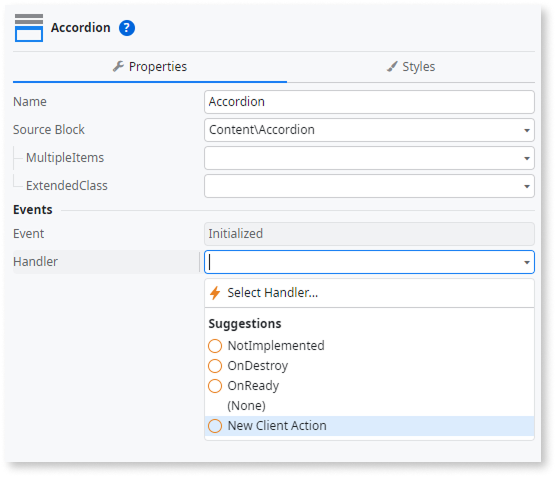
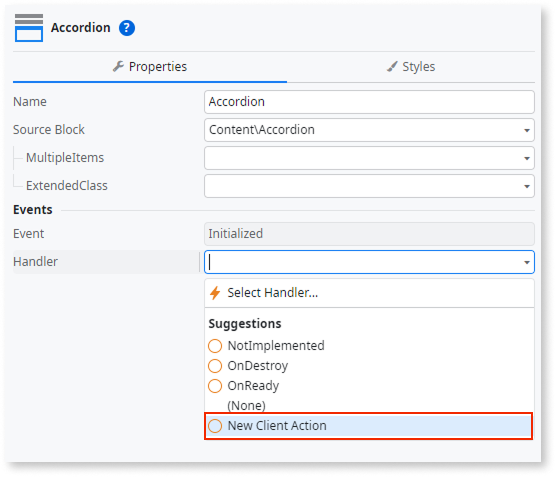
ROU-12779: Updated Accordion, Action Sheet, Carousel and Tabs accessibility docs (#2848)

Changed region(s): [[0.3669, 0.8512, 0.9784, 0.9392]]

diff --git a/src/building-apps/ui/patterns/mobile/interaction/carousel.md b/src/building-apps/ui/patterns/mobile/interaction/carousel.md
@@ -43,7 +43,7 @@ To find out what version of OutSystems UI you are using, see [OutSystems UI vers
 
 You can use the Carousel UI Pattern to display multiple items in a horizontal slide.  The Carousel Pattern optimizes screen space by displaying only a few images from a larger collection which you can view using the navigation controls.
 
-![Screenshot showing an example of the Carousel UI Pattern in action](images/carousel-example.png "Example of a Carousel UI Pattern")
+![Screenshot showing an example of the Carousel UI Pattern in action](images/carousel-example-sa.png "Example of a Carousel UI Pattern")
 
 <div class="info" markdown="1">
 
@@ -125,7 +125,7 @@ Avoid using the Carousel inside patterns with swipe events, such as the **Tabs**
 
 ## Accessibility – WCAG 2.2 AA compliance {#accessibility}
 
-By default, the Carousel UI pattern requires a small update to fully comply with WCAG 2.2 AA standards. If you're using an OutSystems UI version earlier than 2.29.0, you must manually update the Carousel UI pattern to fix the following issues:
+By default, the Carousel UI pattern requires a small update to fully comply with WCAG 2.2 AA standards. If you're using an OutSystems UI version earlier than **2.29.0**, you must manually update the Carousel UI pattern to fix the following issues. Before updating to **2.29.0** or later, remove any manual code you added by following the steps in this section.
 
 * **Pagination controls** must meet the minimum target size of 24 px, making them easier to use for people with motor impairments or situational challenges. Starting with OutSystems UI 2.29.0, this is automatically fixed when the Carousel is inside an element with the `.has-accessible-features` CSS class.
 

diff --git a/src/building-apps/ui/patterns/mobile/navigation/tabs.md b/src/building-apps/ui/patterns/mobile/navigation/tabs.md
@@ -151,7 +151,7 @@ Avoid using the Tabs Pattern inside patterns with swipe events, such as the Stac
 
 ## Accessibility – WCAG 2.2 AA compliance {#accessibility}
 
-By default, the **Tabs** UI Pattern does not fully comply with the ARIA tabs specification. The `role="tabpanel"` attribute does not align with the semantic `<article>` HTML element used for tab panels. If you're using OutSystems UI version earlier than 2.29.0, follow the steps in this section to manually fix this.
+By default, the **Tabs** UI Pattern does not fully comply with the ARIA tabs specification. The `role="tabpanel"` attribute does not align with the semantic `<article>` HTML element used for tab panels. If you're using OutSystems UI version earlier than **2.29.0**, follow the steps in this section to manually fix this. Before updating to **2.29.0** or later, remove any manual code you added by following the steps in this section.
 
 To fix this, you keep the existing `<article>` structure but move the accessibility attributes to an inner `<div>`. This approach preserves the current navigation logic, which relies on the `<article>` containers, while ensuring that assistive technologies interpret tabs and panels correctly.
 

diff --git a/src/building-apps/ui/patterns/mobile/content/accordion.md b/src/building-apps/ui/patterns/mobile/content/accordion.md
@@ -108,7 +108,7 @@ After following these steps and publishing the module, you can test the pattern 
 
 ## Accessibility – WCAG 2.2 AA compliance {#accessibility}
 
-By default, the **Accordion** UI Pattern used together with a **List** Widget doesn’t expose the correct roles for assistive technologies. If you’re using OutSystems UI version earlier than 2.29.0, follow the steps in this section to manually assign the correct list roles.
+By default, the **Accordion** UI Pattern used together with a **List** Widget doesn’t expose the correct roles for assistive technologies. If you’re using OutSystems UI version earlier than **2.29.0**, follow the steps in this section to manually assign the correct list roles. Before updating to **2.29.0** or later, remove any manual code you added by following the steps in this section.
 
 Assigning `list` and `listitem` roles ensures that screen readers interpret the structure properly, improving navigation and context for users who rely on assistive tools.
 

diff --git a/src/building-apps/ui/patterns/mobile/interaction/actionsheet.md b/src/building-apps/ui/patterns/mobile/interaction/actionsheet.md
@@ -97,7 +97,7 @@ After following these steps and publishing the module, you can test the pattern 
 
 ## Accessibility – WCAG 2.2 AA compliance {#accessibility}
 
-By default, the **Action Sheet** UI Pattern may not accurately convey its expanded or collapsed state to assistive technologies. If you're using OutSystems UI version earlier than 2.29.0, follow the steps in this section to manually set the correct ARIA attributes.
+By default, the **Action Sheet** UI Pattern may not accurately convey its expanded or collapsed state to assistive technologies. If you're using OutSystems UI version earlier than **2.29.0**, follow the steps in this section to manually set the correct ARIA attributes. Before updating to **2.29.0** or later, remove any manual code you added by following the steps in this section.
 
 Set the appropriate ARIA attributes so screen readers announce when the Action Sheet opens or closes, ensuring users always understand its current state.
 
